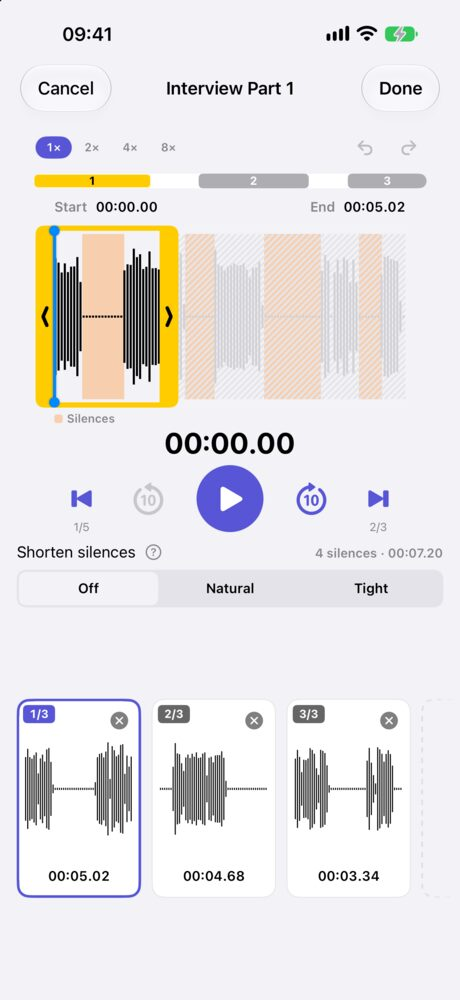
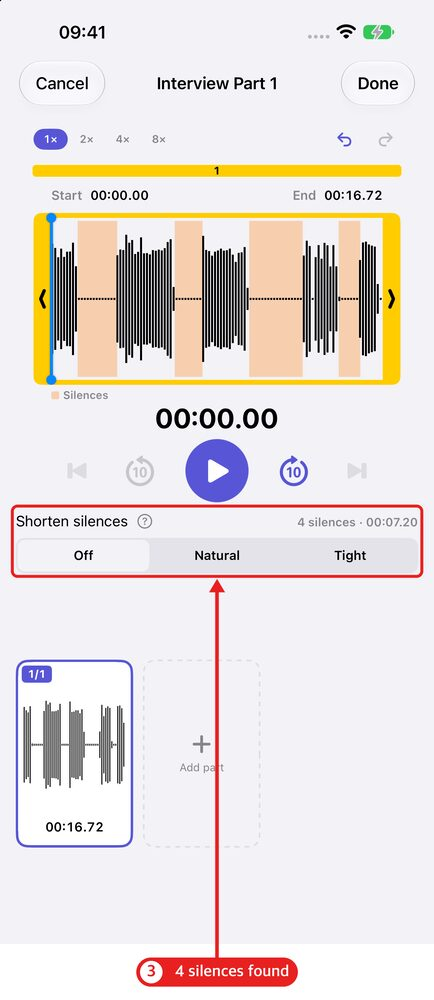
feat(blog): 무음 줄이기 글에 단계별 빨간 박스 캡처 5장
무음 개수는 파형 아래가 아니라 Shorten silences 옆에 뜬다 - 화면대로 고쳤다.

diff --git a/content/blog/remove-silence-from-audio/index.md b/content/blog/remove-silence-from-audio/index.md
@@ -7,11 +7,6 @@ app: joinsound
 
 To remove silence from audio on a phone, open the recording in an app that finds the quiet gaps and shortens them for you. In JoinSound, that is one tap: **Shorten silences**, then **Natural** or **Tight**. It works the same on iPhone and Android, and the short pauses between words stay, so the voice doesn't sound chopped.
 
-<div class="shots">
-<figure><img src="joinsound-silences-found.jpg" alt="JoinSound trim screen for Interview Part 1 with Shorten silences set to Off. Four silences are shaded orange on the waveform and the label reads 4 silences, 00:07.20" width="460" height="1000" loading="lazy"><figcaption>Off: the silences are marked in orange, with how many and how long</figcaption></figure>
-<figure><img src="joinsound-silences-shortened.jpg" alt="The same recording with Shorten silences set to Natural. Red marks show where silence was taken out, the text says Shortens 4 silences to 0.5s, and the length drops by 5.20 seconds" width="460" height="1000" loading="lazy"><figcaption>Natural: each long silence becomes half a second</figcaption></figure>
-</div>
-
 ## Remove silence or shorten it?
 
 Shorten it. If every quiet moment is cut out, words run into each other and the recording sounds rushed. What you usually want gone is the dead air: the five seconds while someone thinks, or the gap before the speaker starts.
@@ -29,11 +24,22 @@ What counts as silence is measured for each recording, so a quiet room and a noi
 ## How to shorten silences in a recording
 
 1. Open JoinSound and tap **Choose Audio Files**. Pick your recording from Files, or share it to JoinSound.
-2. Tap the scissors on the recording's row.
-3. Look at the orange marks and the count under the waveform. That is every long silence in the file.
-4. Under **Shorten silences**, tap **Natural** or **Tight**. The change happens right away, and the time saved shows in red.
-5. Play it back. If it sounds too tight, tap **Natural**. If you change your mind, tap **Off**.
-6. Tap **Done**, then save as M4A, MP3 or WAV. If MP3 is all you need, there are [free ways to convert a voice memo](/blog/convert-voice-memo-to-mp3-iphone/).
+2. Tap **Trim** (the scissors) on the recording's row.
+3. Look at the orange marks on the waveform and the count next to **Shorten silences**. That is every long silence in the file, and how long they add up to.
+4. Under **Shorten silences**, tap **Natural** or **Tight**. The change happens right away, and the time saved shows in red. Play it back. If it sounds too tight, tap **Natural**, or **Off** to undo it. Then tap **Done**.
+5. Pick M4A, MP3 or WAV and tap **Save**. If MP3 is all you need, there are [free ways to convert a voice memo](/blog/convert-voice-memo-to-mp3-iphone/).
+
+<div class="shots">
+<figure><img src="joinsound-choose.jpg" alt="JoinSound start screen with Choose Audio Files marked 1 in red" width="434" height="1000" loading="lazy"><figcaption>1. Choose Audio Files</figcaption></figure>
+<figure><img src="joinsound-trim.jpg" alt="JoinSound list with one recording, Interview Part 1, and its Trim scissors marked 2 in red" width="434" height="1000" loading="lazy"><figcaption>2. Tap Trim (the scissors)</figcaption></figure>
+</div>
+<div class="shots">
+<figure><img src="joinsound-silences-found.jpg" alt="JoinSound trim screen with four silences shaded orange on the waveform. Shorten silences is Off and the count 4 silences, 00:07.20 is marked 3 in red" width="434" height="1000" loading="lazy"><figcaption>3. Orange marks: 4 silences found</figcaption></figure>
+<figure><img src="joinsound-natural.jpg" alt="The same recording with Natural marked 4 in red. Red lines show where silence was taken out, the text says Shortens 4 silences to 0.5s, the length drops by 5.20 seconds, and Done is marked" width="434" height="1000" loading="lazy"><figcaption>4. Natural or Tight, then Done</figcaption></figure>
+</div>
+<div class="shots one">
+<figure><img src="joinsound-save.jpg" alt="JoinSound list with the recording marked Silences shortened and the Save button marked 5 in red" width="434" height="1000" loading="lazy"><figcaption>5. Save</figcaption></figure>
+</div>
 
 Have several recordings? Each file gets its own setting, so a music intro can stay as it is while the interview after it is tightened. JoinSound then joins them into one file, the same way it [combines voice memos](/blog/merge-voice-memos-iphone/).
 
